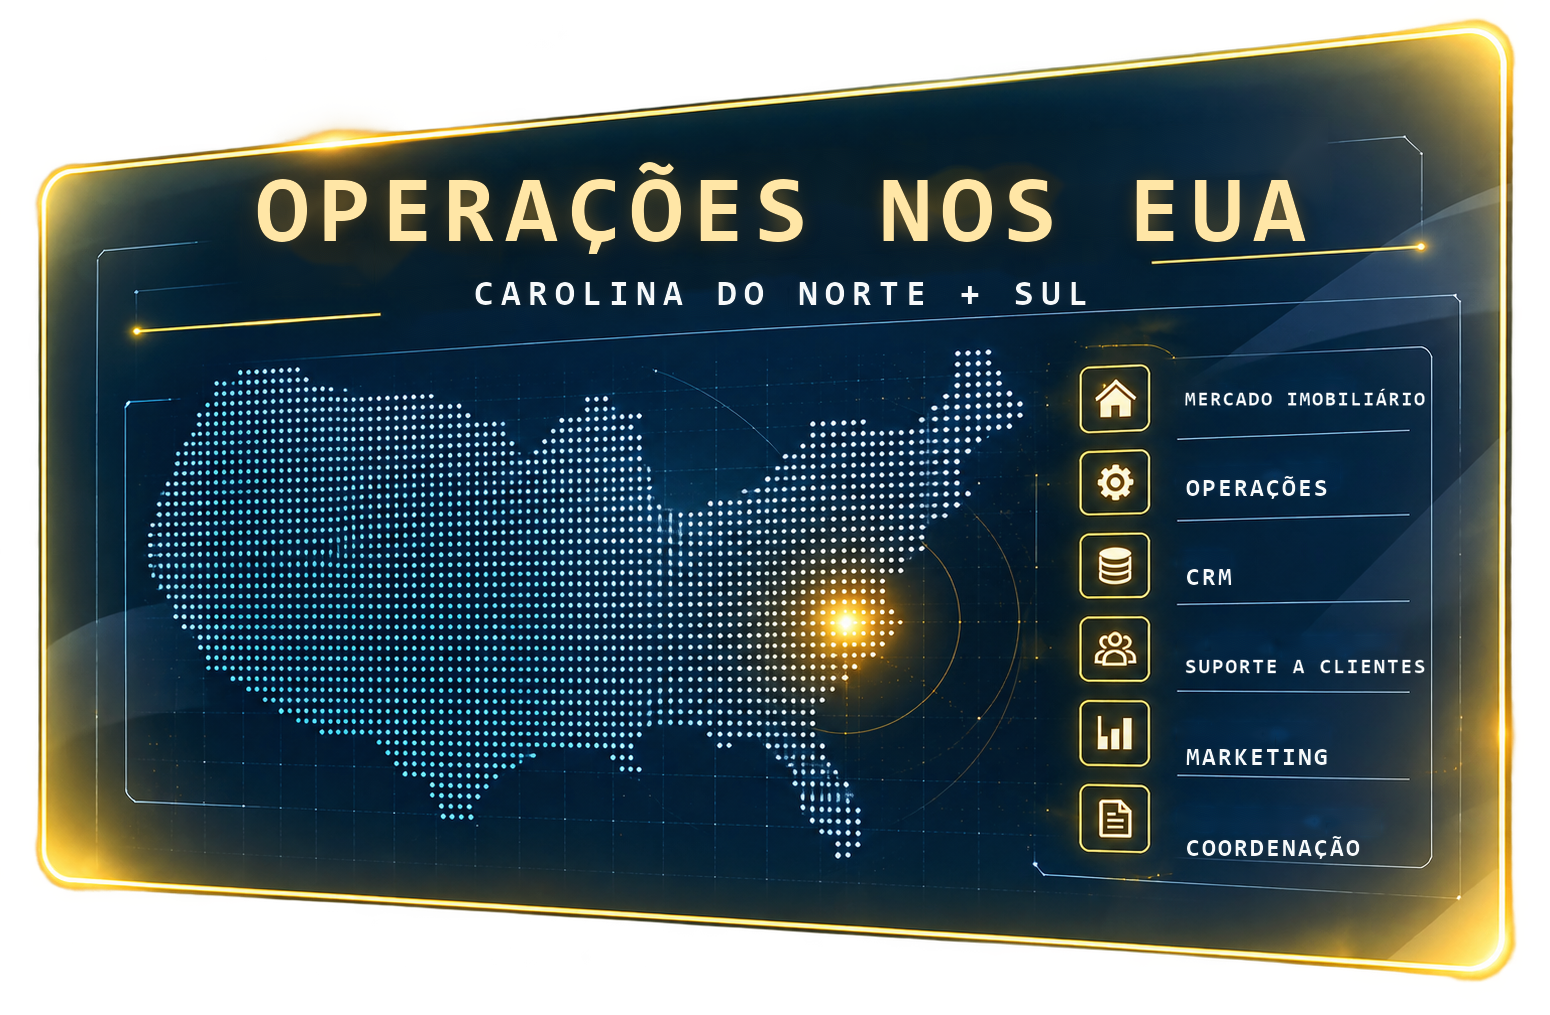
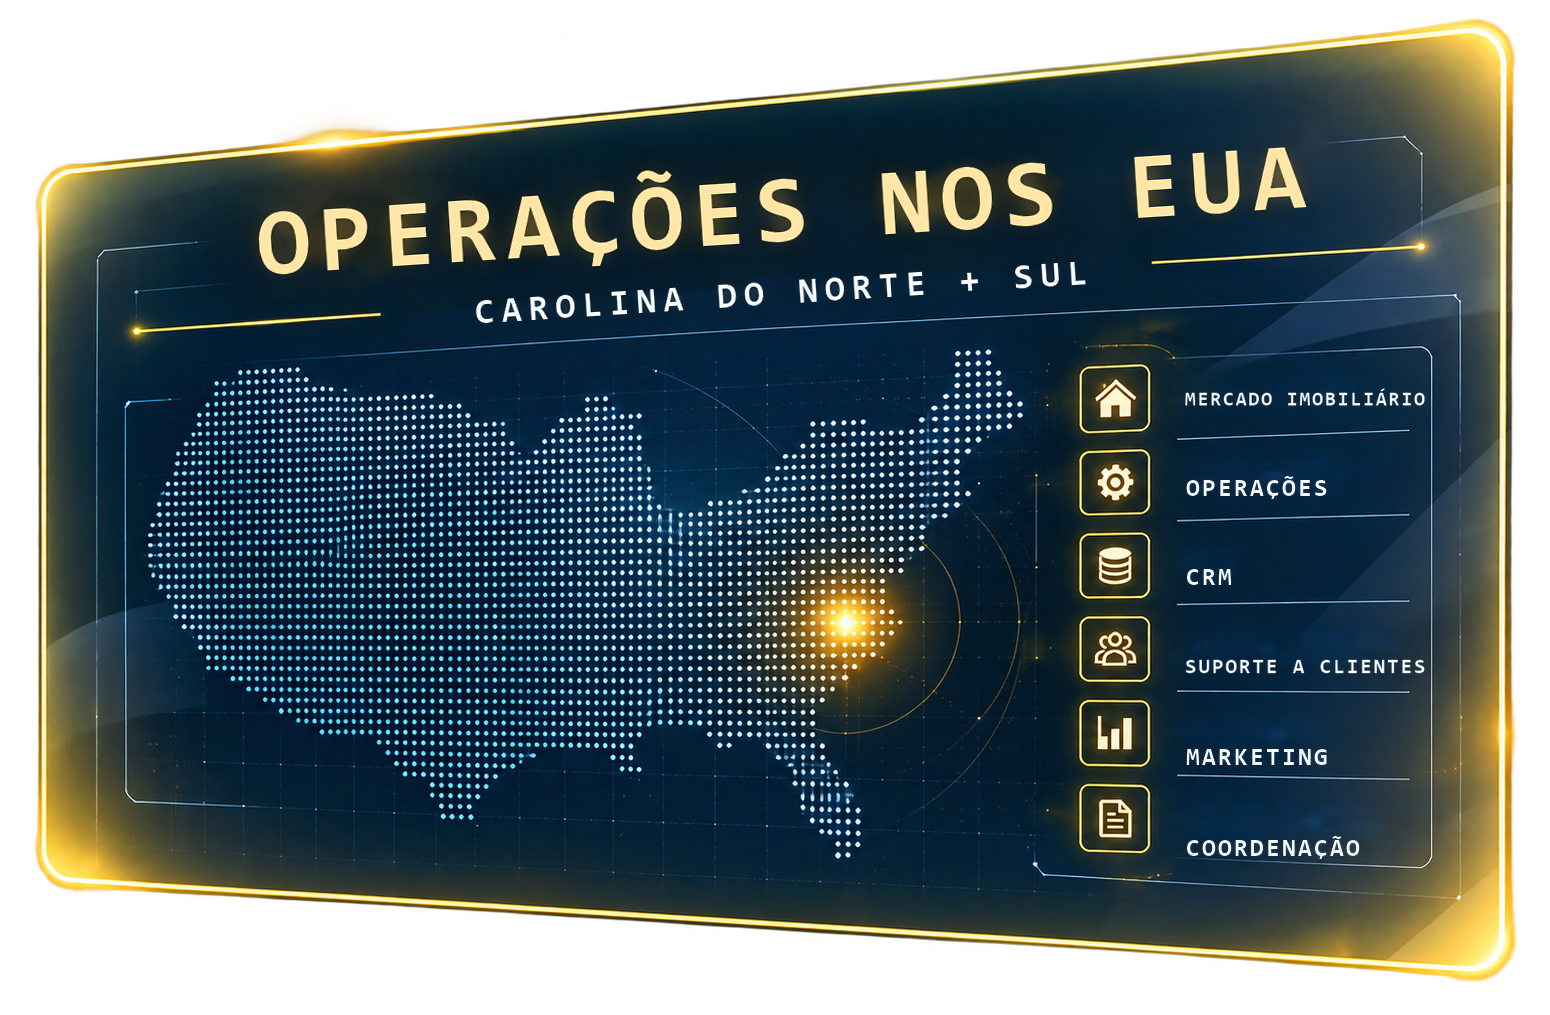
fix: match localized panel title angle

Changed region(s): [[0.1548, 0.1527, 0.5884, 0.336], [0.5574, 0.1527, 0.7123, 0.3054], [0.7123, 0.1527, 0.8671, 0.2443]]

diff --git a/index.html b/index.html
@@ -669,8 +669,8 @@ body.scrolled .hero{overflow:visible;z-index:100}
         <img class="remote-panel-reference-composite" src="assets/remote/REMOTE_PANEL_REFERENCE_COMPOSITE_EN_20260930.png" alt="" loading="eager" fetchpriority="high" decoding="async" />
       </div>
       <div class="remote-panel-reference-localized">
-        <img class="remote-panel-reference-composite remote-panel-reference-pt" src="assets/remote/REMOTE_PANEL_REFERENCE_COMPOSITE_PT_20261018.png?v=level-text-20261018" alt="" loading="eager" fetchpriority="high" decoding="async" />
-        <img class="remote-panel-reference-composite remote-panel-reference-es" src="assets/remote/REMOTE_PANEL_REFERENCE_COMPOSITE_ES_20261018.png?v=level-text-20261018" alt="" loading="eager" fetchpriority="high" decoding="async" />
+        <img class="remote-panel-reference-composite remote-panel-reference-pt" src="assets/remote/REMOTE_PANEL_REFERENCE_COMPOSITE_PT_20261018.png?v=title-angle-list-level-v2-20261018" alt="" loading="eager" fetchpriority="high" decoding="async" />
+        <img class="remote-panel-reference-composite remote-panel-reference-es" src="assets/remote/REMOTE_PANEL_REFERENCE_COMPOSITE_ES_20261018.png?v=title-angle-list-level-v2-20261018" alt="" loading="eager" fetchpriority="high" decoding="async" />
       </div>
     </div>
     <img class="remote-master-foreground-repair" src="assets/remote/REMOTE_MASTER_FOREGROUND_RESTORE_NO_PANEL_20260930.png" alt="" aria-hidden="true" loading="eager" fetchpriority="high" decoding="sync" />

diff --git a/tools/build_localized_panels.py b/tools/build_localized_panels.py
@@ -9,9 +9,10 @@ ASSET_DIR = ROOT / "assets" / "remote"
 SOURCE = Image.open(ASSET_DIR / "REMOTE_PANEL_REFERENCE_COMPOSITE_EN_20260930.png").convert("RGBA")
 WIDTH, HEIGHT = SOURCE.size
 FONT_PATH = r"C:\Windows\Fonts\consolab.ttf"
-# The frozen EN panel keeps its internal labels level; the glass frame carries
-# the perspective. Localized labels must follow that same baseline.
-ANGLE = 0.0
+# Match the frozen EN title/region angle, but keep the lower list labels level;
+# those are the words that must not look individually crooked.
+TITLE_ANGLE = 3.7
+ITEM_ANGLE = 0.0
 
 
 def add_component_text_mask(mask, rect, predicate, component_filter, dilation=7):
@@ -157,14 +158,14 @@ def add_rotated(
     layer = render_text(text, font, fill, tracking, glow, glow_radius, stroke_width, stroke_fill)
     if max_width:
         layer = fit_width(layer, max_width)
-    composite_center(base, layer.rotate(ANGLE, resample=Image.Resampling.BICUBIC, expand=True), center)
+    composite_center(base, layer.rotate(TITLE_ANGLE, resample=Image.Resampling.BICUBIC, expand=True), center)
 
 
 def add_rotated_left(base, text, font, fill, tracking, glow, glow_radius, left, center_y, max_width=None):
     layer = render_text(text, font, fill, tracking, glow, glow_radius)
     if max_width:
         layer = fit_width(layer, max_width)
-    rotated = layer.rotate(ANGLE, resample=Image.Resampling.BICUBIC, expand=True)
+    rotated = layer.rotate(ITEM_ANGLE, resample=Image.Resampling.BICUBIC, expand=True)
     composite_center(base, rotated, (left + rotated.width / 2, center_y))
 
 
